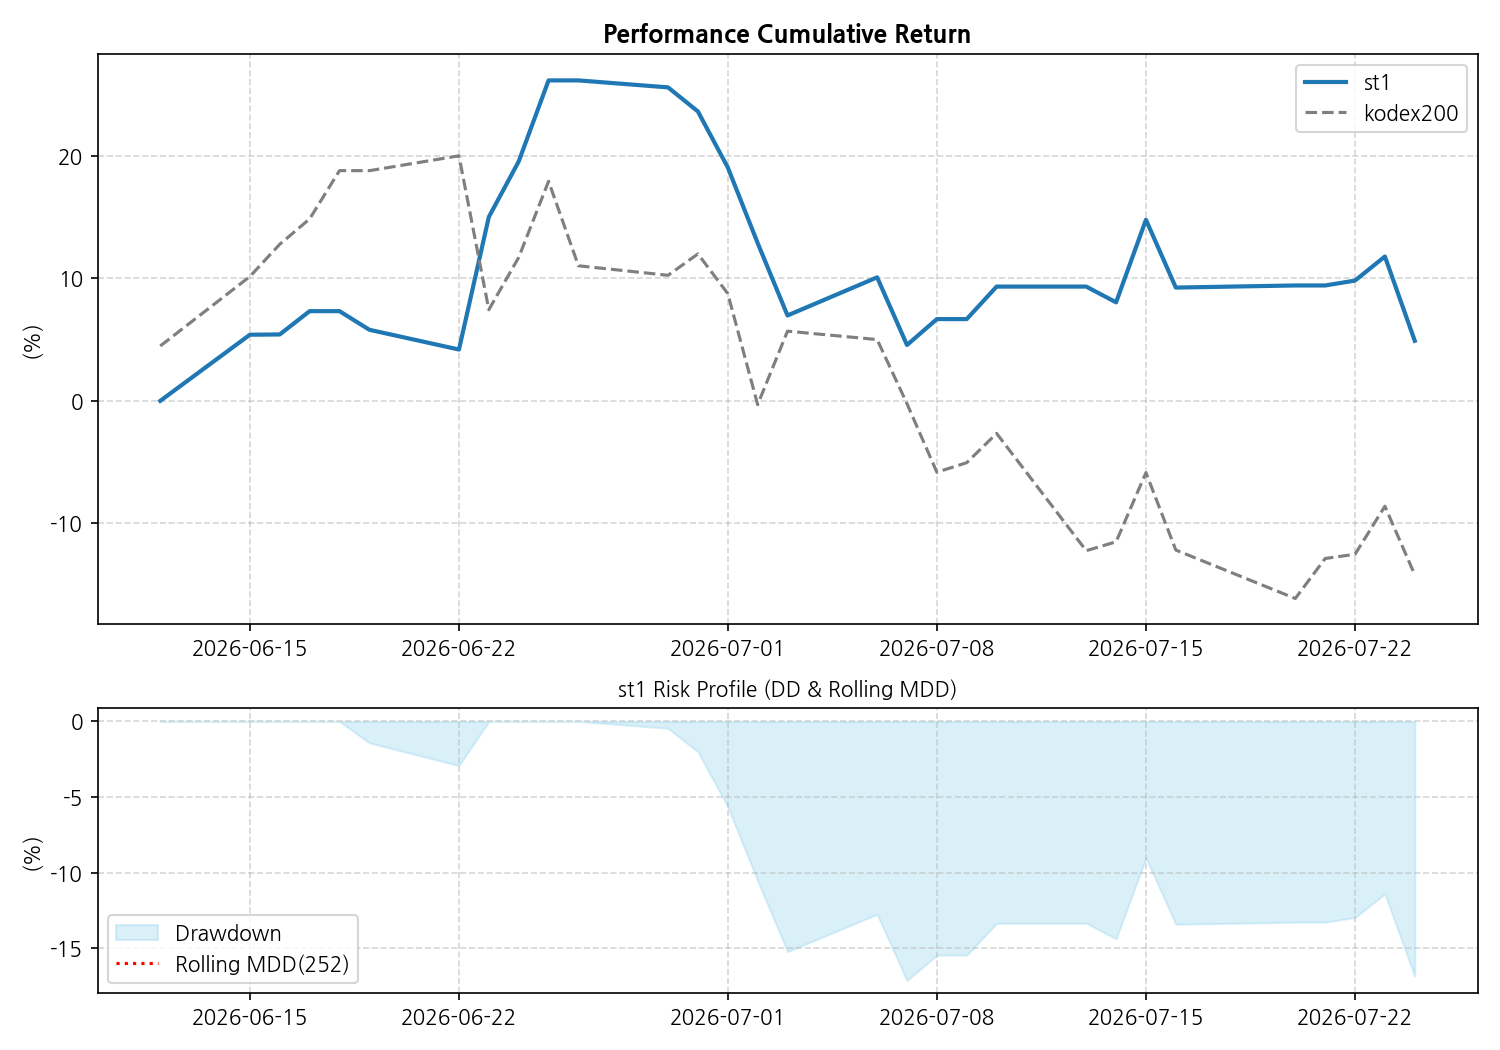
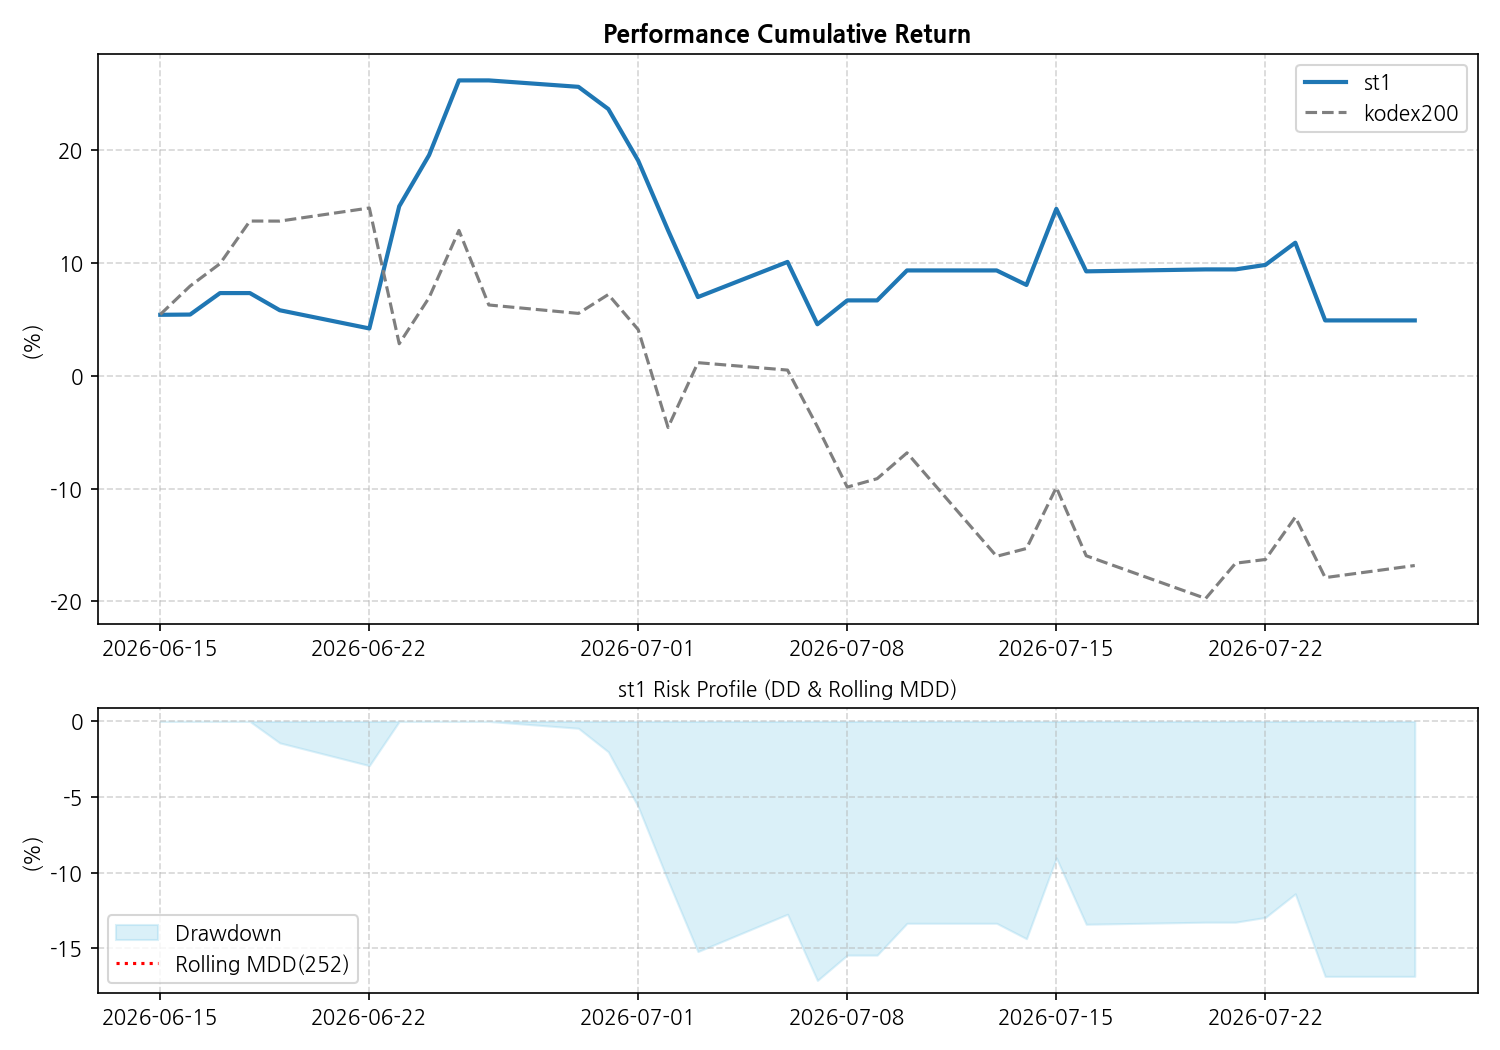
Auto commit

diff --git a/_pages/bt/bt_kodex.md b/_pages/bt/bt_kodex.md
@@ -2,7 +2,7 @@
 layout: post
 title: "BT, 오늘의 시그널(ETF)"
 author: Best Investor
-date: 2026-07-24
+date: 2026-07-27
 category: BT
 mermaid: true
 parent: 포트폴리오
@@ -14,14 +14,14 @@ parent: 포트폴리오
 
 | 지표 | 전략 1 (S1) | 전략 2 (S2) | 차이 (Diff) |
 | :--- | :---: | :---: | :---: |
-| **오늘 수익률** | -6.16% | -6.13% | -0.03% |
-| **30일 수익률** | 4.9% | -14.21% | 19.11% |
-| **1년 수익률** | 308.55% | 146.93% | 161.62% |
-| **전체 수익률** | 1193.16% | 256.69% | 936.47% |
+| **오늘 수익률** | 0.0% | 1.31% | -1.31% |
+| **30일 수익률** | 4.9% | -16.82% | 21.72% |
+| **1년 수익률** | 304.92% | 147.85% | 157.07% |
+| **전체 수익률** | 1225.76% | 270.69% | 955.07% |
 | **MDD (1Y)** | -17.13% | -30.13% | 13.0%p |
 | **MDD (ALL)** | **-17.13%** | **-30.13%** | 13.0%p |
-| **샤프 (1Y)** | 3.67 | 2.07 | 1.6 |
-| **샤프 (ALL)** | **2.74** | **1.22** | 1.52 |
+| **샤프 (1Y)** | 3.64 | 2.07 | 1.57 |
+| **샤프 (ALL)** | **2.77** | **1.25** | 1.52 |
 
 ## 📉 누적 성과 및 리스크 차트
 1. **최근 30일:** ![30일](/img_st/st_kodex_cum_risk_30d.png)

diff --git a/_posts/signal/2026-04-01-signal.md b/_posts/signal/2026-04-01-signal.md
@@ -7,6 +7,18 @@ category: Jekyll
 ---
 ## 시그널  
 
+### 📊 2026-07-28 Morning Trading Signal
+
+- 📅 날짜: 2026-07-28  
+- ⏰ 시간: 09:02  
+- 🧾 종목: **KODEX 인버스**  
+- 📉 포지션: **하방**
+
+##### 🧭 Execution Plan
+- 🚀 진입: 오늘 시가_진입(매수)
+- 🎯 청산: 오늘 종가_청산
+
+
 ### 📊 2026-07-27 Afternoon Trading Signal
 
 - 📅 날짜: 2026-07-27  
